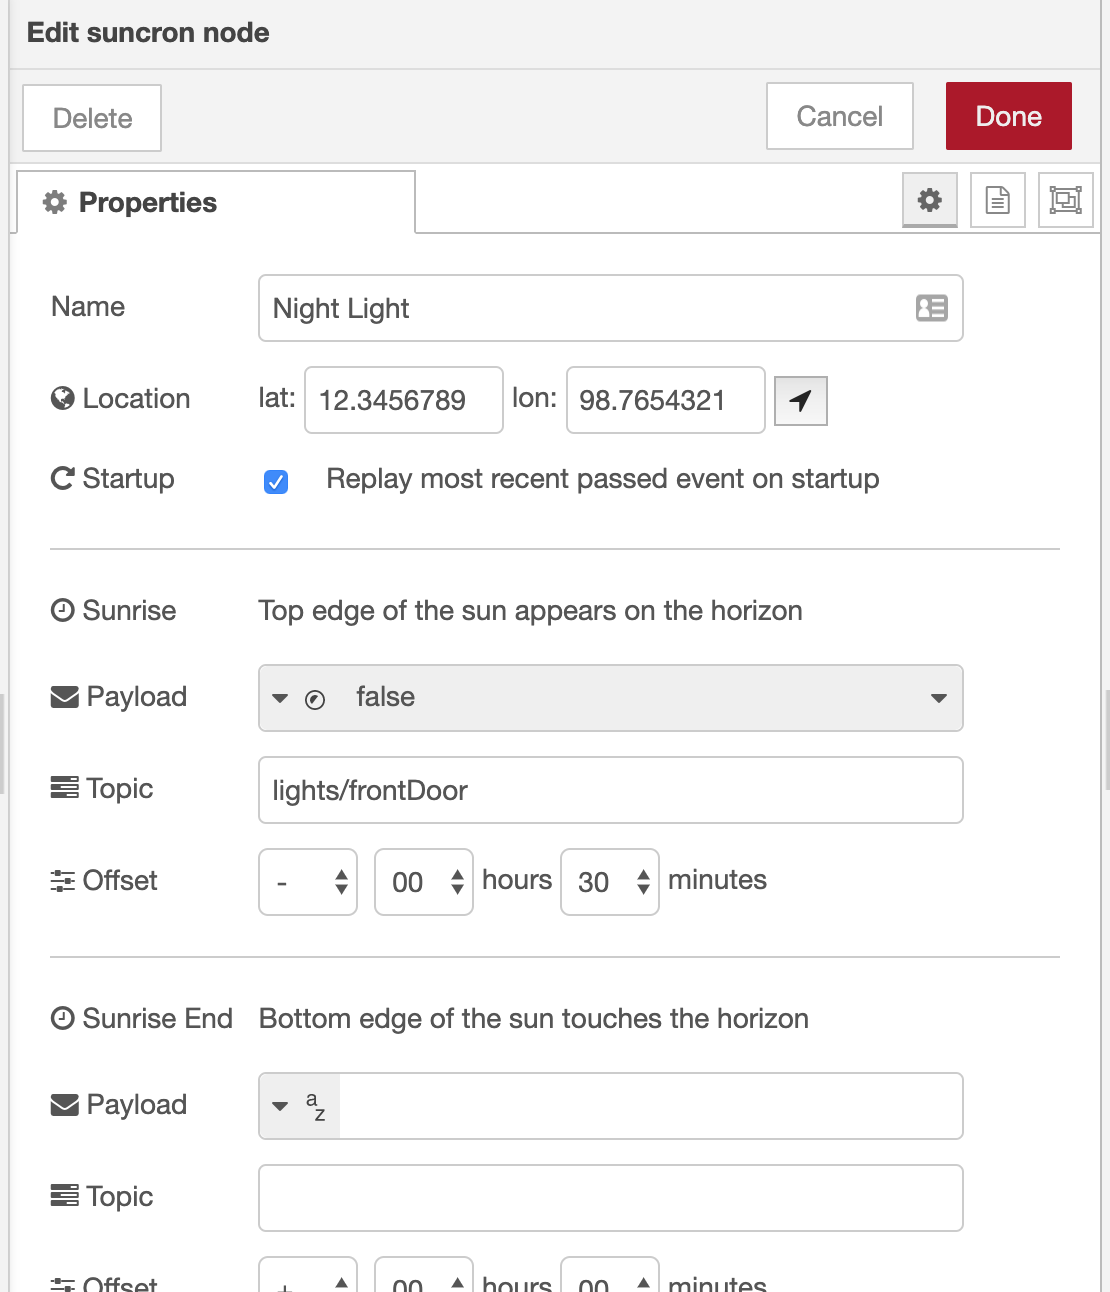
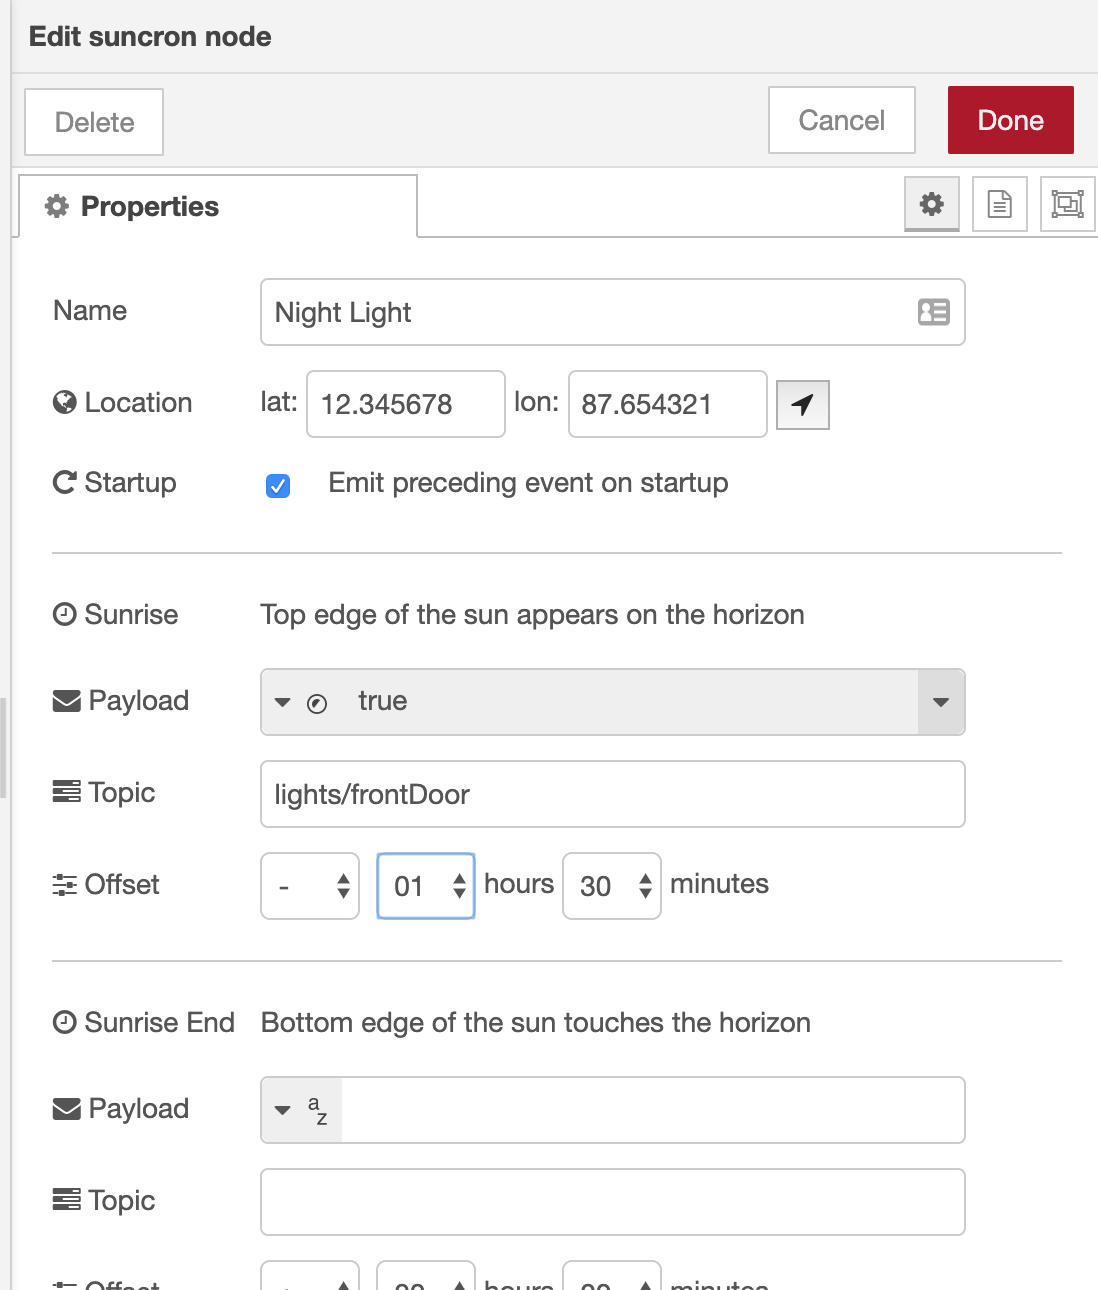
improve description of replay feature

diff --git a/suncron.html b/suncron.html
@@ -126,7 +126,7 @@
 
   <div class="form-row">
     <label for="node-input-replay"><i class="fa fa-repeat"></i> Startup</label>
-    <input type="checkbox" value="1" id="node-input-replay" style="width:30px; margin:0px"> Replay most recent passed event on startup
+    <input type="checkbox" value="1" id="node-input-replay" style="width:30px; margin:0px"> Emit preceding event on startup
   </div>
 
   <hr />
